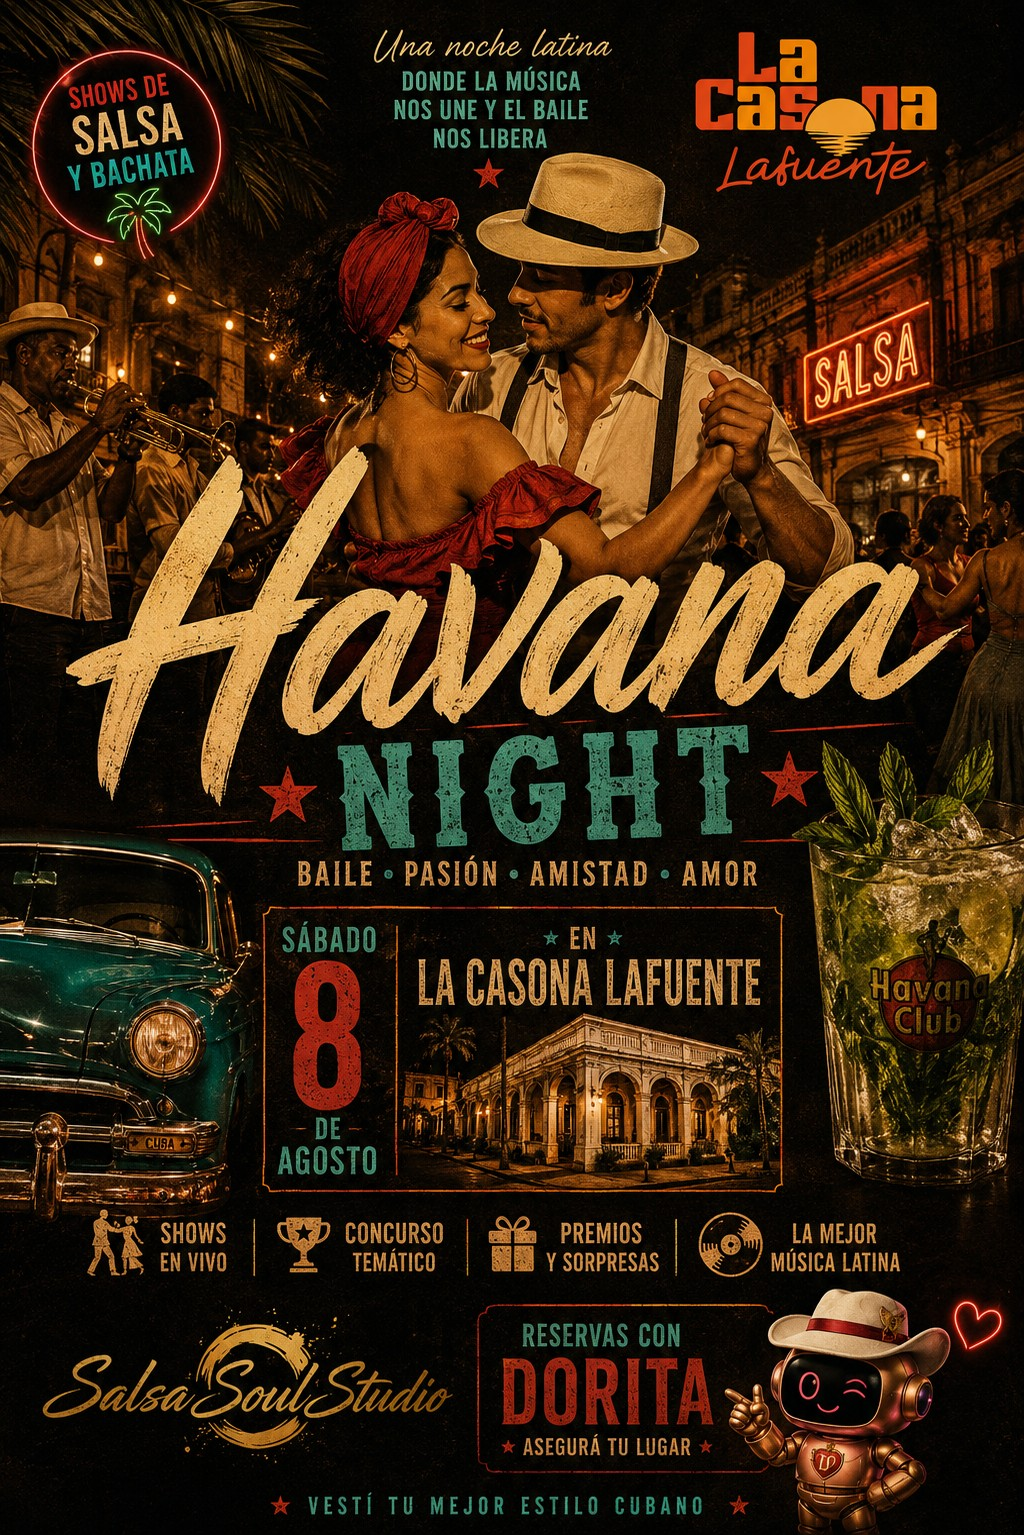
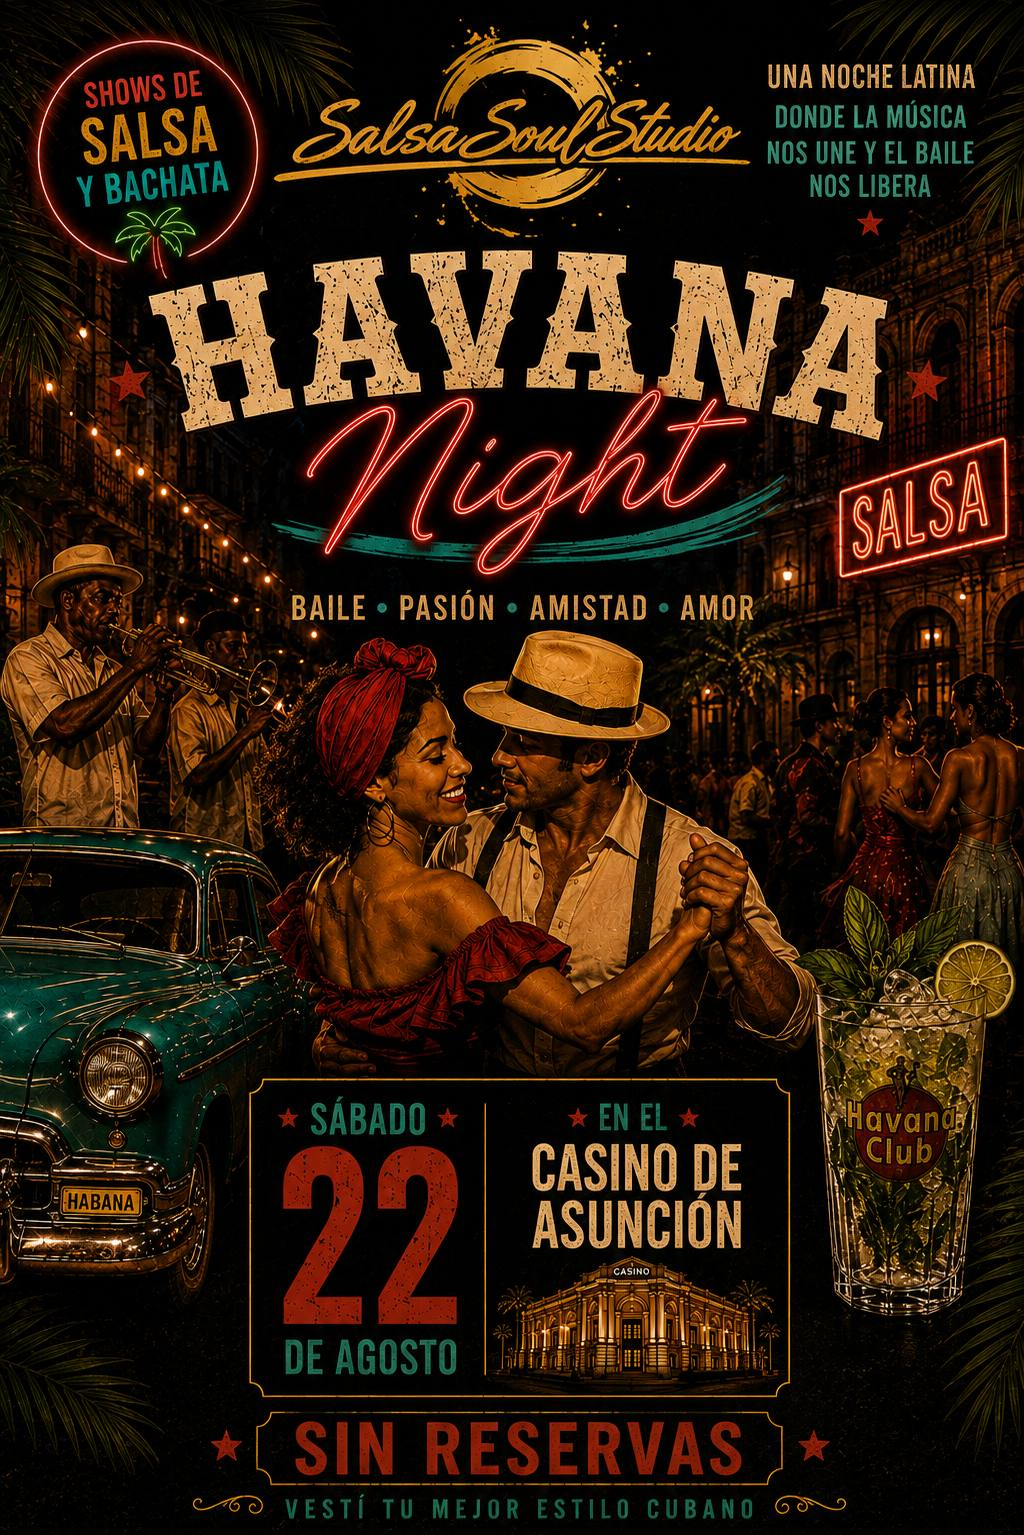
feat(sociales): Havana Night 22/08 con entrada libre y gratuita, sin reservas
Afiche nuevo (sab 22/08, Casino de Asuncion) en sociales/ny2cali.jpg —
nombre evergreen, se reemplaza el contenido cada mes — con ?v=4 para
romper el cache.

El home deja de ofrecer "Comprar entrada" (eso era del Havana Night del
8/08 en La Casona) y dice entrada libre y gratuita, sin reservas.

/sociales entiende el TIPO_VENTA=LIBRE nuevo de Airtable: en vez de listar
mesas con boton de reserva muestra "Entrada libre · Gratis · Sin reservas".
El social de septiembre sigue con TIPO_VENTA vacio (=MESA) y sus mesas.

diff --git a/sociales/index.html b/sociales/index.html
@@ -108,7 +108,7 @@
   <div class="hero">
     <h1>Sociales NY2CALI</h1>
     <p>Salsa · Bachata · Amigos · Buena vibra 💃🕺</p>
-    <img class="flyer" src="ny2cali.jpg?v=3" alt="Havana Night · Sábado 8 de agosto · La Casona Lafuente">
+    <img class="flyer" src="ny2cali.jpg?v=4" alt="Havana Night · Sábado 22 de agosto · Casino de Asunción">
     <div class="divider"></div>
   </div>
 
@@ -158,7 +158,16 @@
            <div class="social-meta">${hora ? "🕗 "+hora+" hs" : ""}${s.lugar ? ' · <span class="pin">📍 '+s.lugar+'</span>' : ""}</div>`;
 
         let mesasHtml;
-        if(s.tipo_venta === 'ENTRADA'){
+        if(s.tipo_venta === 'LIBRE'){
+          // Social de entrada libre y gratuita: no hay mesas que reservar ni entrada que vender
+          mesasHtml = `<div class="mesa">
+                          <div class="mesa-top">
+                            <span class="mesa-nom">Entrada libre</span>
+                            <span class="mesa-precio">Gratis</span>
+                          </div>
+                          <div class="mesa-disp">Sin reservas — venís y entrás 💃🕺</div>
+                        </div>`;
+        }else if(s.tipo_venta === 'ENTRADA'){
           mesasHtml = `<div class="mesa">
                           <div class="mesa-top">
                             <span class="mesa-nom">Entrada general</span>
@@ -187,7 +196,7 @@
                     </div>`;
           }).join("") + '</div>';
         }
-        const label = s.tipo_venta === 'ENTRADA' ? 'Entrada' : 'Mesas disponibles';
+        const label = (s.tipo_venta === 'ENTRADA' || s.tipo_venta === 'LIBRE') ? 'Entrada' : 'Mesas disponibles';
         return `<div class="social">${cabecera}<div class="mesas-label">${label}</div>${mesasHtml}</div>`;
       }).join("");
     }

diff --git a/index.html b/index.html
@@ -270,18 +270,18 @@
   <div class="festival-wrapper" id="sociales">
     <div class="festival-inner">
       <div class="festival-poster" onclick="openLightbox(this)">
-        <img src="/sociales/ny2cali.jpg?v=3" alt="Havana Night — Sábado 8 de agosto, La Casona Lafuente" loading="lazy">
+        <img src="/sociales/ny2cali.jpg?v=4" alt="Havana Night — Sábado 22 de agosto, Casino de Asunción" loading="lazy">
       </div>
       <div class="festival-info">
-        <span class="badge">Sábado 8 de Agosto</span>
+        <span class="badge">Sábado 22 de Agosto</span>
         <h2>Havana Night</h2>
-        <p class="fecha">La Casona Lafuente</p>
+        <p class="fecha">Casino de Asunción</p>
         <div class="detalles">
           Una noche latina con shows de salsa y bachata 💃🕺<br>
-          Concurso temático · Premios y sorpresas<br>
-          Asegurá tu entrada con anticipación 🎟
+          Vestí tu mejor estilo cubano 🌴<br>
+          <strong>Entrada libre y gratuita · Sin reservas</strong>
         </div>
-        <a class="btn-festival" href="/sociales">🎟 Comprar entrada</a>
+        <a class="btn-festival" href="/sociales">🎉 Ver los sociales</a>
       </div>
     </div>
   </div>
